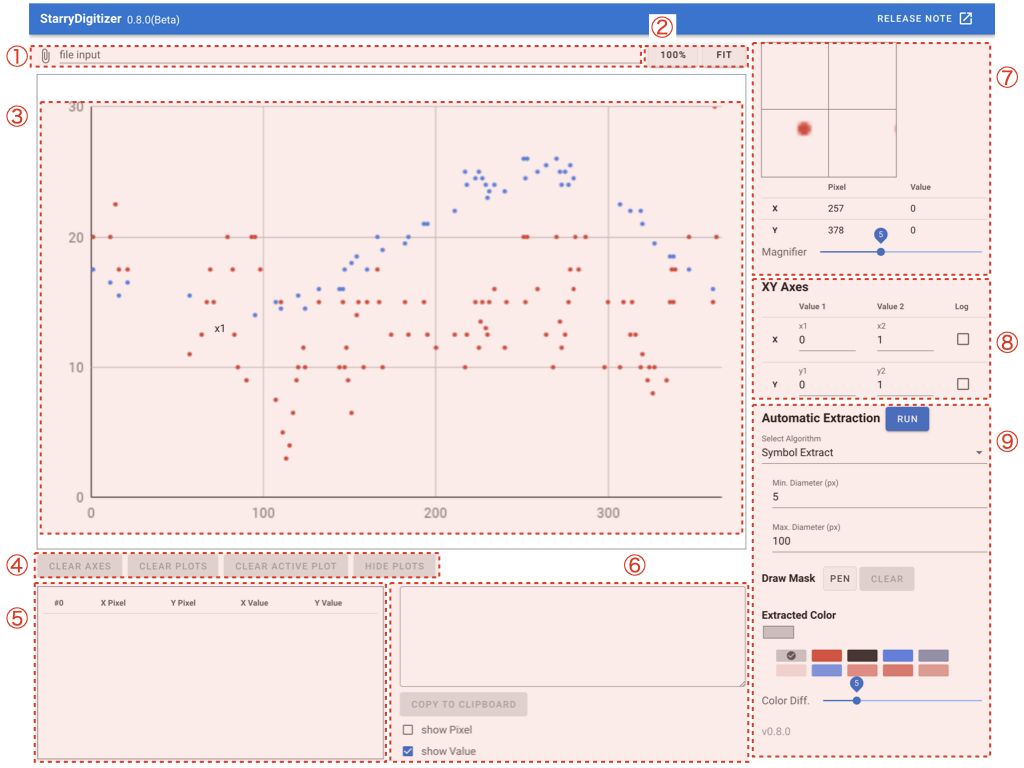
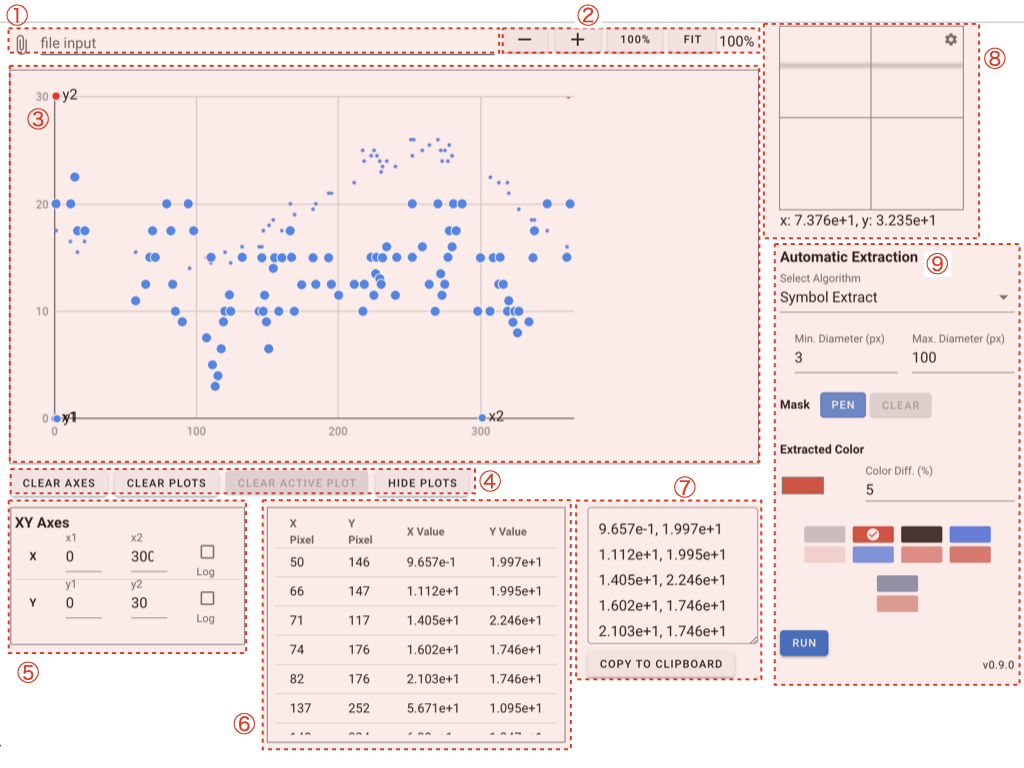
docs: update

diff --git a/docs/index.rst b/docs/index.rst
@@ -35,6 +35,8 @@ StarryDigitizerドキュメント
 
 2. 読み込んだ画像の調整
 ========================================
+- 「-」：画像を縮小します。
+- 「+」：画像を拡大します。
 - 「100%」：画像の解像度と同一のサイズで表示します。
 - 「FIT」：画像の横幅が最大になるように表示します。
 
@@ -47,38 +49,46 @@ StarryDigitizerドキュメント
 XY軸の指定直後はアクティブになっており、カーソル移動で微調整できます。
 プロットの移動は、プロットクリックして、カーソル移動することで位置調整できます。
 
+3-1. プロットの操作
+----------------------------------------------------------
+すでに抽出済のプロットをクリックすることで編集モードに入れます。
+
+3-2. プロットのまとめて操作
+-----------------------------------------
+Windowsでは「Ctrl」、Macでは「Command」ボタンと同時にプロットをクリックすることで、複数選択が可能です。
+その後に、カーソル移動によりまとめて移動、また「CLEAR ACTIVE PLOTS」ボタンでまとめて削除が可能です。
+
+
 4. ボタン類
 ========================================
 - CLEAR AXES: XY軸（x1, x2, y1, y2）を全てクリアします。
 - CLEAR PLOTS: プロットを全てクリアします。
-- CLEAR ACTIVE PLOT: アクティブなプロットのみクリアします。プロットを直接クリックすることでプロットをアクティブ状態にできます。
+- CLEAR ACTIVE PLOTS: 選択中のプロットをクリアします。
 - HIDE PLOTS: プロットを非表示にします。
 
-5. プロットテーブル
-========================================
-抽出したプロットをテーブル形式で表示します。
-- 1列目：取得した順番を表示します。列頭の#の数値はプロット数です。
-- 2列目：プロットのXのピクセル値です。
-- 3列目：プロットのYのピクセル値です。
-- 4列目：プロットのXの実際の値です。
-- 5列目：プロットのYの実際の値です。
-
-6. プロットコピーエリア
-========================================
-抽出したプロットがコピーできます。
-- 「show Pixel」：ピクセル値を表示します。
-- 「show Value」：XY値を表示します。
-
-
-7. 拡大鏡
-========================================
-カーソルが当たってる作業エリアを拡大して表示します。
-「Magnifier」を調整することで拡大サイズを調整できます。
-
-8. XY軸設定
+5. XY軸設定
 ========================================
 作業エリアで指定したXY軸（x1, x2, y1, y2）に対して、それぞれXY値を入力できます。
 ログスケールのグラフから抽出する場合は、XY軸それぞれで「Log」にチェックを入れてください。
+
+6. プロットテーブル
+========================================
+抽出したプロットをテーブル形式で表示します。
+- 1列目：プロットのXのピクセル値です。
+- 2列目：プロットのYのピクセル値です。
+- 3列目：プロットのXの実際の値です。
+- 4列目：プロットのYの実際の値です。
+
+7. プロットコピーエリア
+========================================
+抽出したプロットをコピーできます。
+直接テキストエリアを編集することも可能ですが、他の箇所を操作することで最新のデータに上書きされます。
+
+8. 拡大鏡
+========================================
+カーソルが当たってる作業エリアを拡大して表示します。
+右上の「⚙」アイコンをクリックで「Magnifier」の拡大レベルの調整ができます。
+
 
 9. 自動抽出
 ========================================
@@ -101,9 +111,9 @@ XY軸の指定直後はアクティブになっており、カーソル移動で
 - 「Min. Line Width (px)」：指定した線幅以上の線を抽出するフィルタリングです。傾きが大きな線については線幅を大きく誤抽出します。
 - 「X Direction Interval (px)」：X方向のインターバルを指定します。X方向に希望のpx単位でプロットを抽出できます。
 
-9-3. Draw Mask
+9-3. Mask
 ---------------------
-自動抽出したい範囲をペンツールを用いてフィルタリングすることができます。透明な黄色色で塗られた箇所のみ自動抽出対象となります。
+自動抽出したい範囲をペンツールを用いてフィルタリングすることができます。半透明な黄色色で塗られた箇所のみ自動抽出対象となります。
 
 9-4. Extracted Color
 ---------------------------
@@ -113,3 +123,6 @@ XY軸の指定直後はアクティブになっており、カーソル移動で
 
 - 「Color Diff」：自動抽出する色の閾値を変更できます。1〜5あたりを指定するのがオススメです。
 
+9-5. RUN
+-----------------------
+「RUN」ボタン押下で自動抽出、実行できます。
